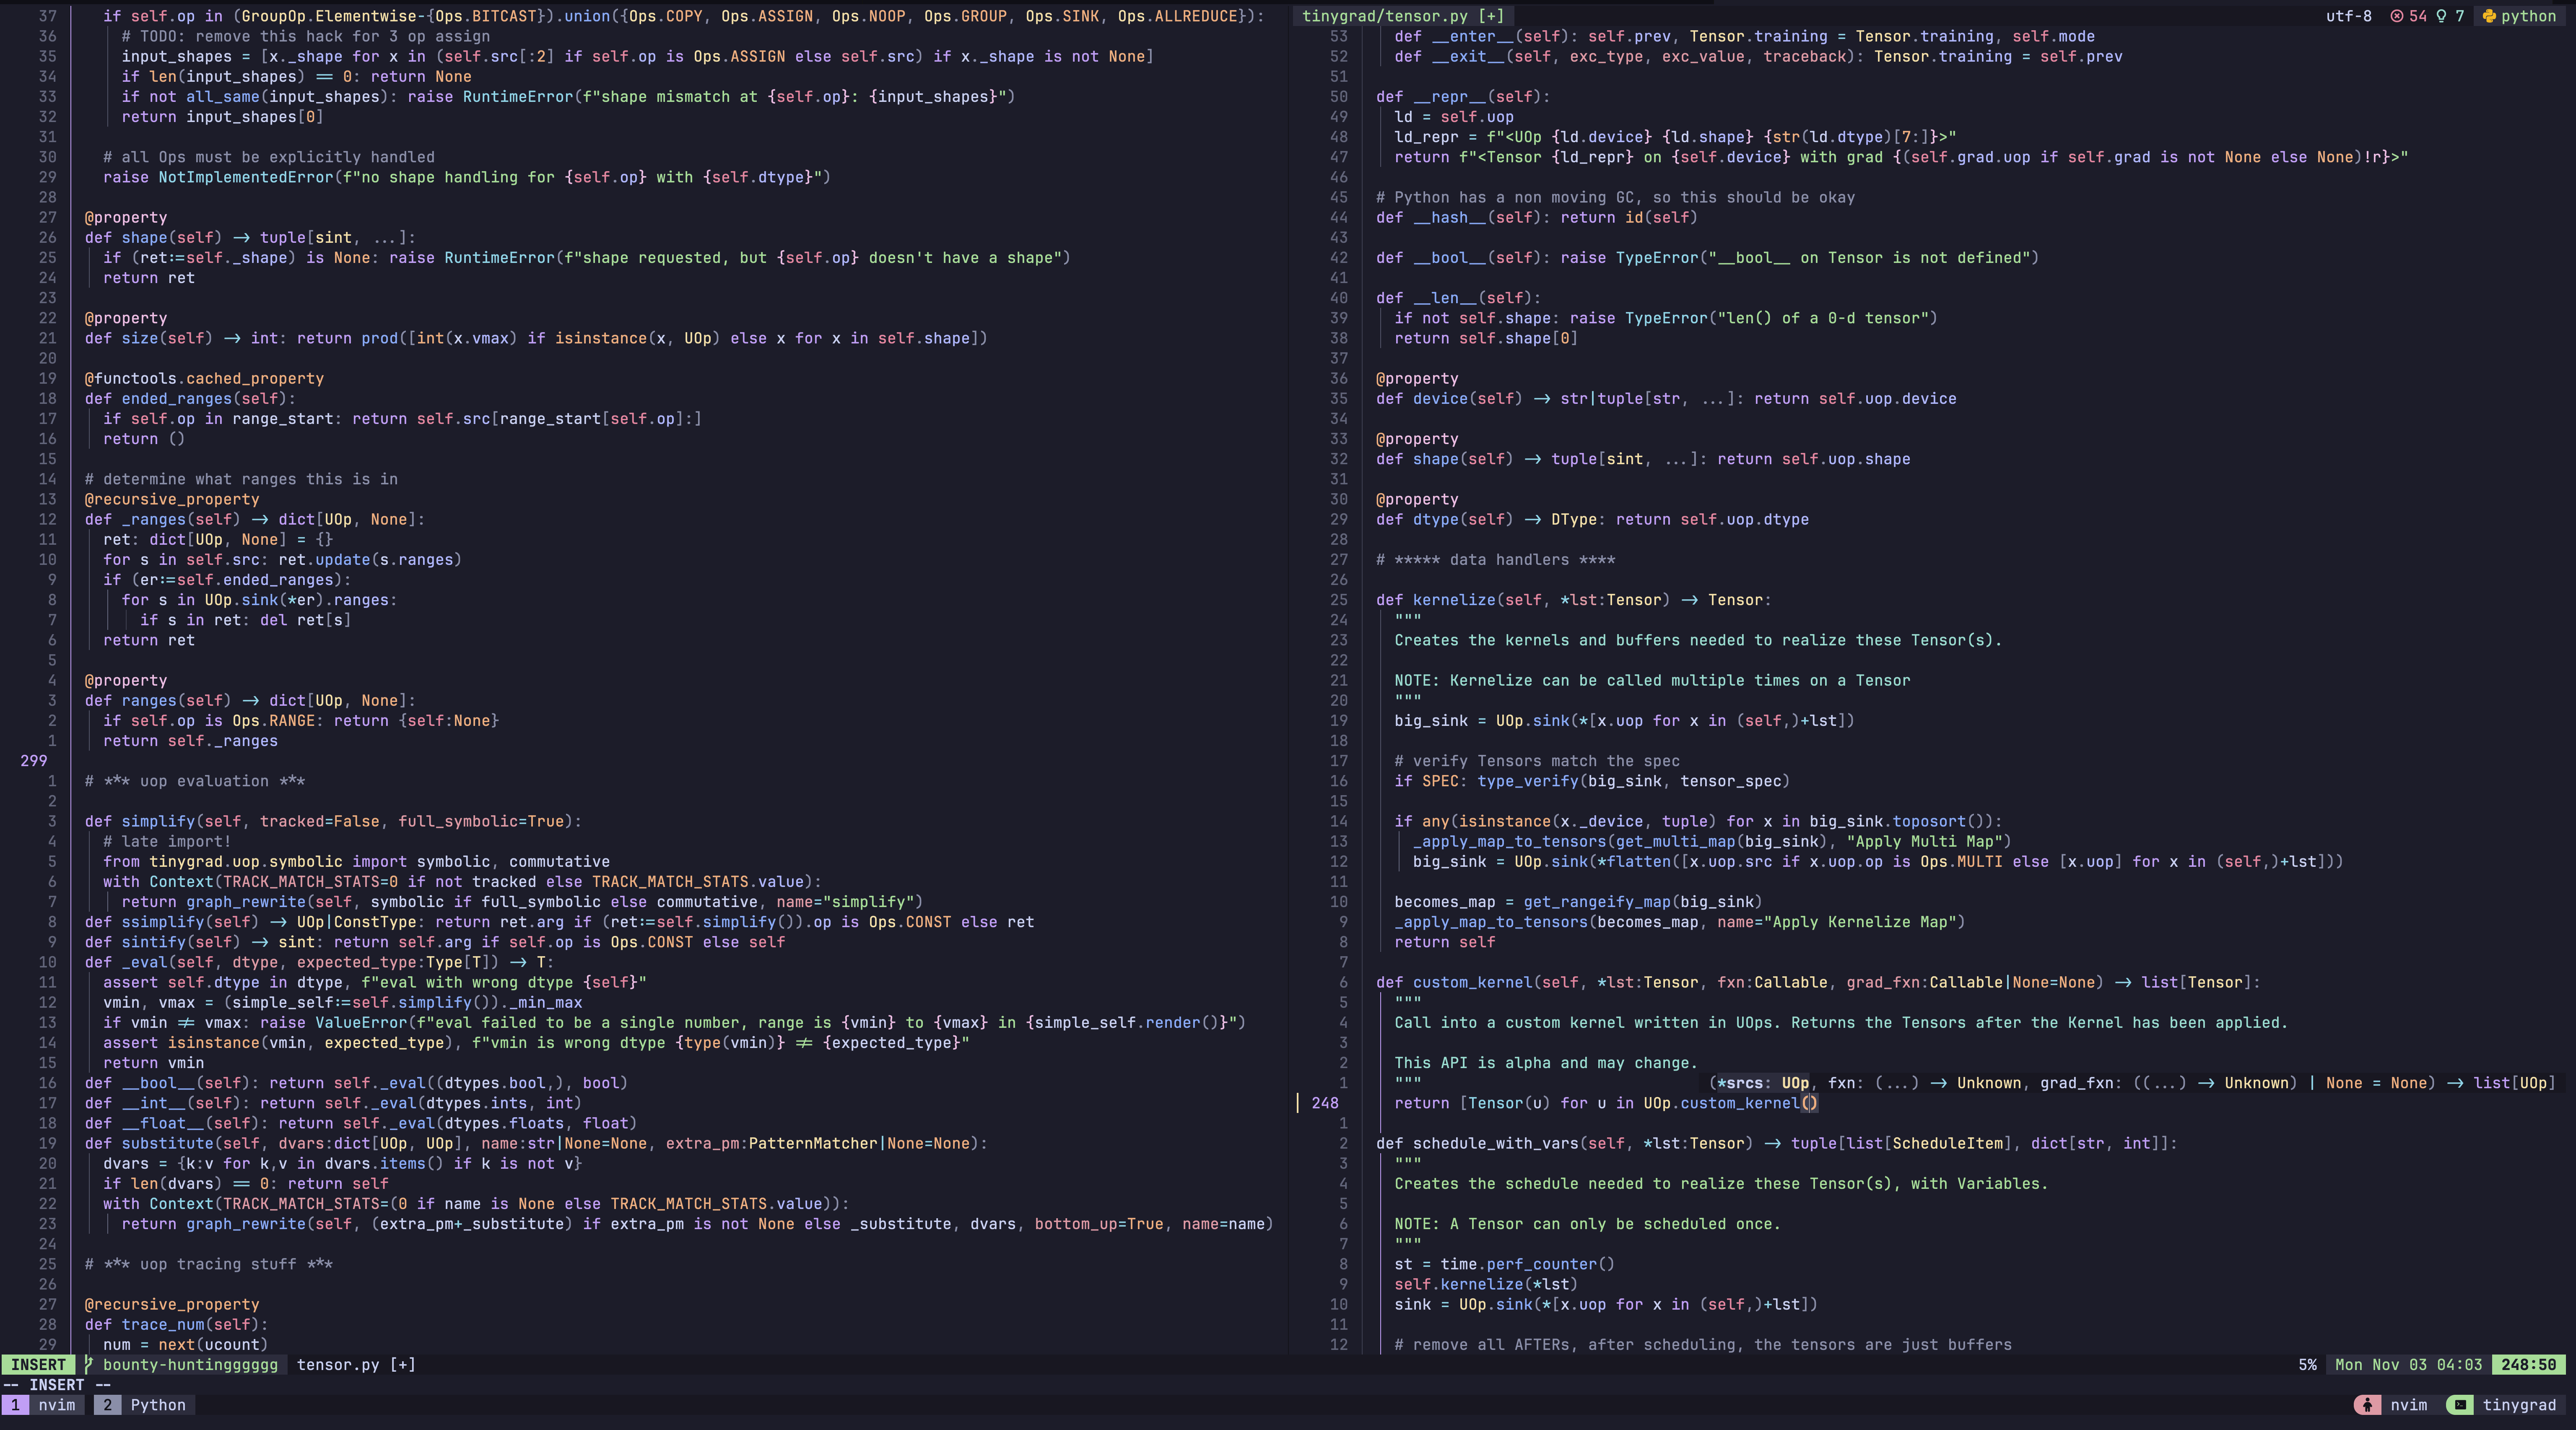
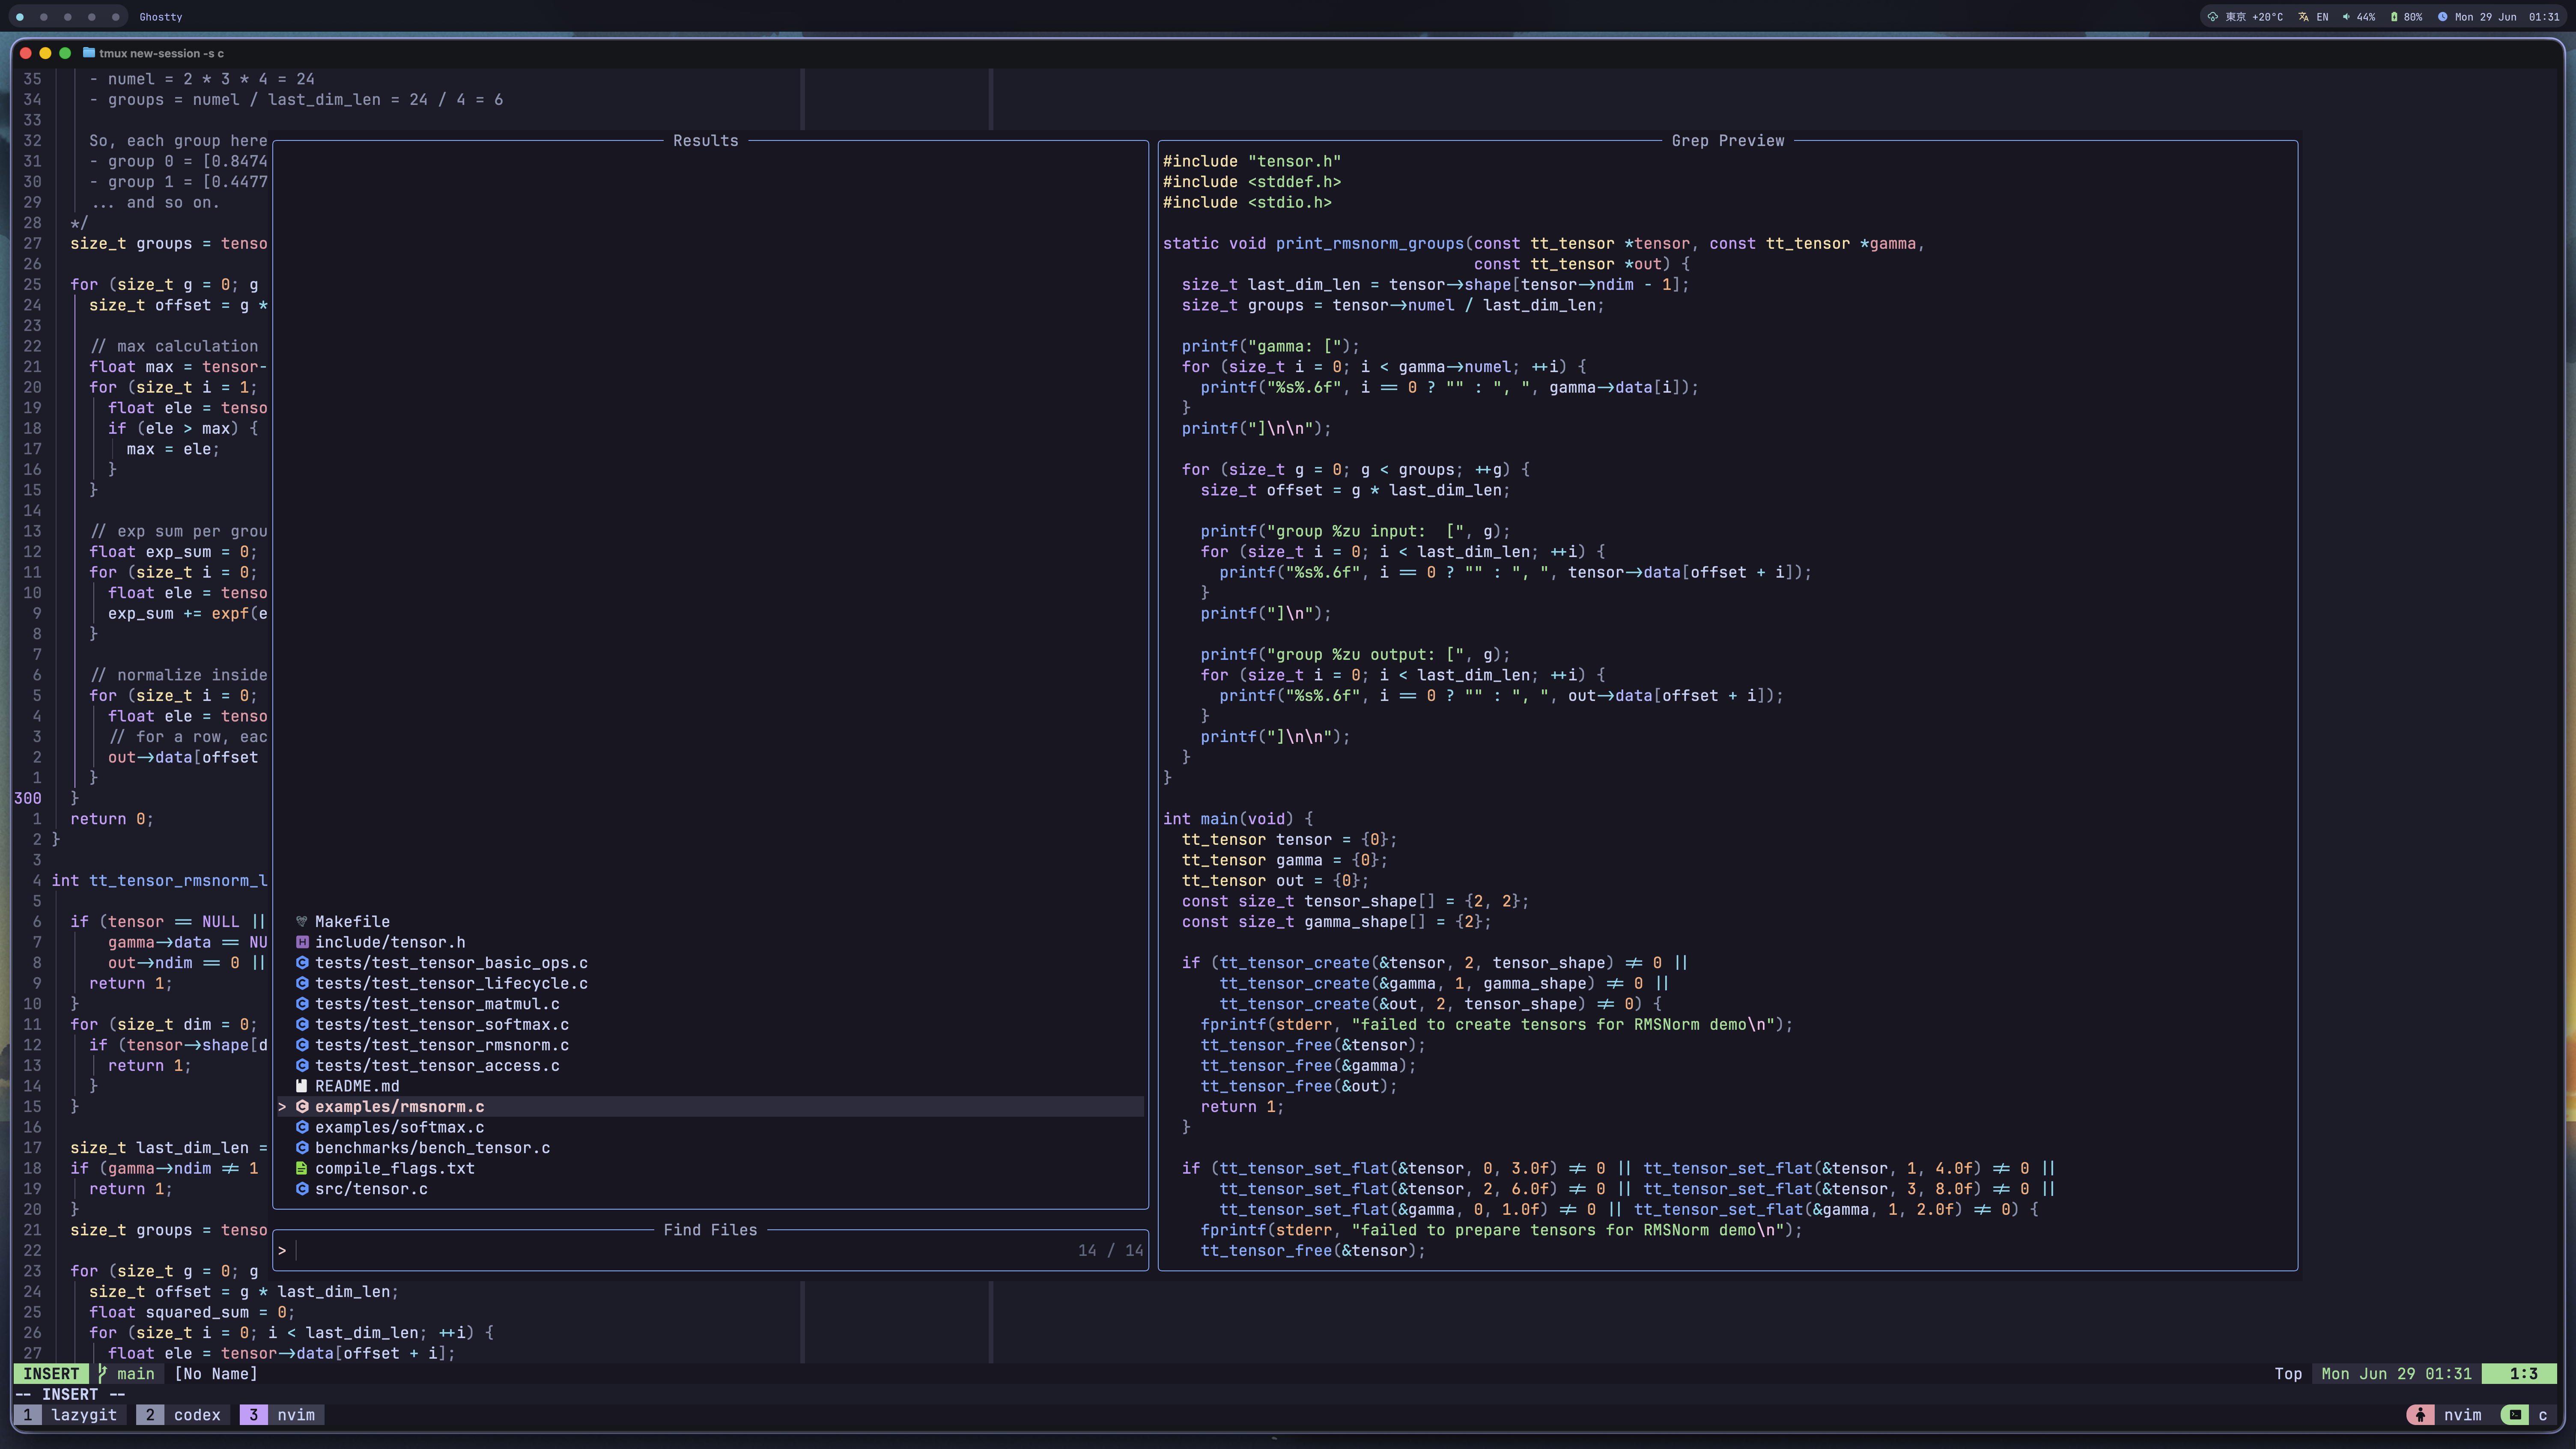
added latest screenshots

diff --git a/README.md b/README.md
@@ -14,8 +14,6 @@ Currently, I use Neovim, Ghostty, and tmux for my workflow.
 
 ![!ss3](/assets/screenshot3.png)
 
-![!ss4](/assets/screenshot4.png)
-
 ---
 
 ## Installation